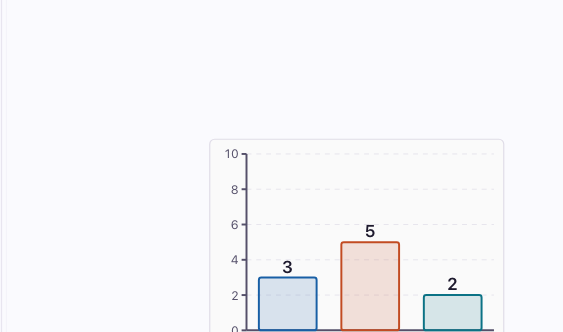
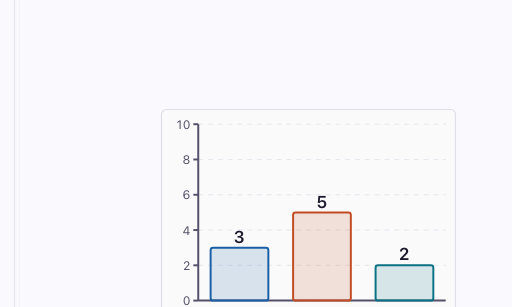
fix: captures calcul colonnes + division posée, cadrage diagrammes
Résolu le bug de re-sélection de la pièce calcul après édition
(hit-zone décalée de +10mm par rapport au point de placement).
Ajouté grille 3 modes calcul dans le catalogue (expression, colonnes, division).
Cadrage amélioré pour diagrammes à bandes et ligne brisée.

Changed region(s): [[0.3125, 0.3518, 0.9062, 1.0]]

diff --git a/public/docs/catalogue-pieces.html b/public/docs/catalogue-pieces.html
@@ -541,6 +541,20 @@
       </dd>
     </div>
     <div class="piece-img"><img src="images/catalogue-calcul-expression.png" alt="calcul expression"></div>
+    <div class="gabarit-grid" style="grid-template-columns: 1fr 1fr 1fr">
+      <figure>
+        <img src="images/catalogue-calcul-expression.png" alt="Expression">
+        <figcaption>Expression</figcaption>
+      </figure>
+      <figure>
+        <img src="images/catalogue-calcul-colonnes.png" alt="En colonnes">
+        <figcaption>En colonnes</figcaption>
+      </figure>
+      <figure>
+        <img src="images/catalogue-calcul-division.png" alt="Division posée">
+        <figcaption>Division posée</figcaption>
+      </figure>
+    </div>
     <div class="piece-operations">
       <dt>Utile pour</dt>
       <ul>
